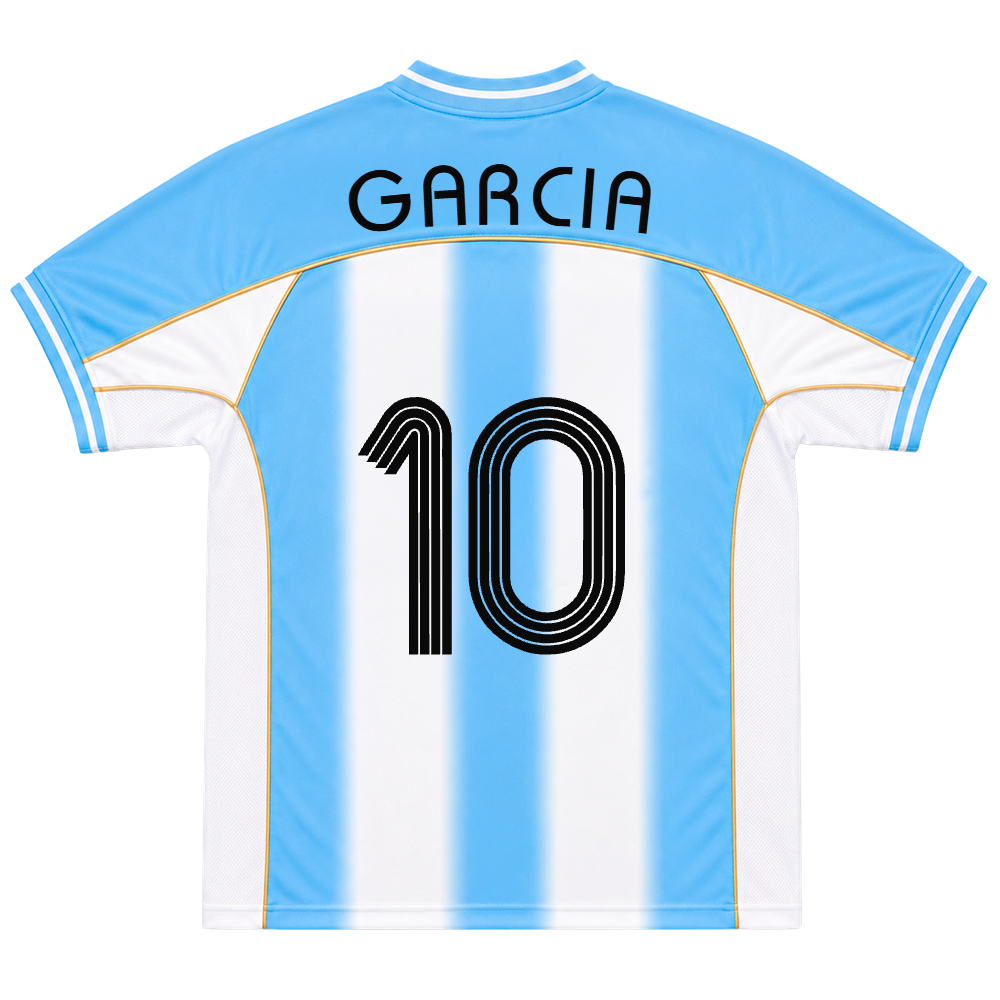
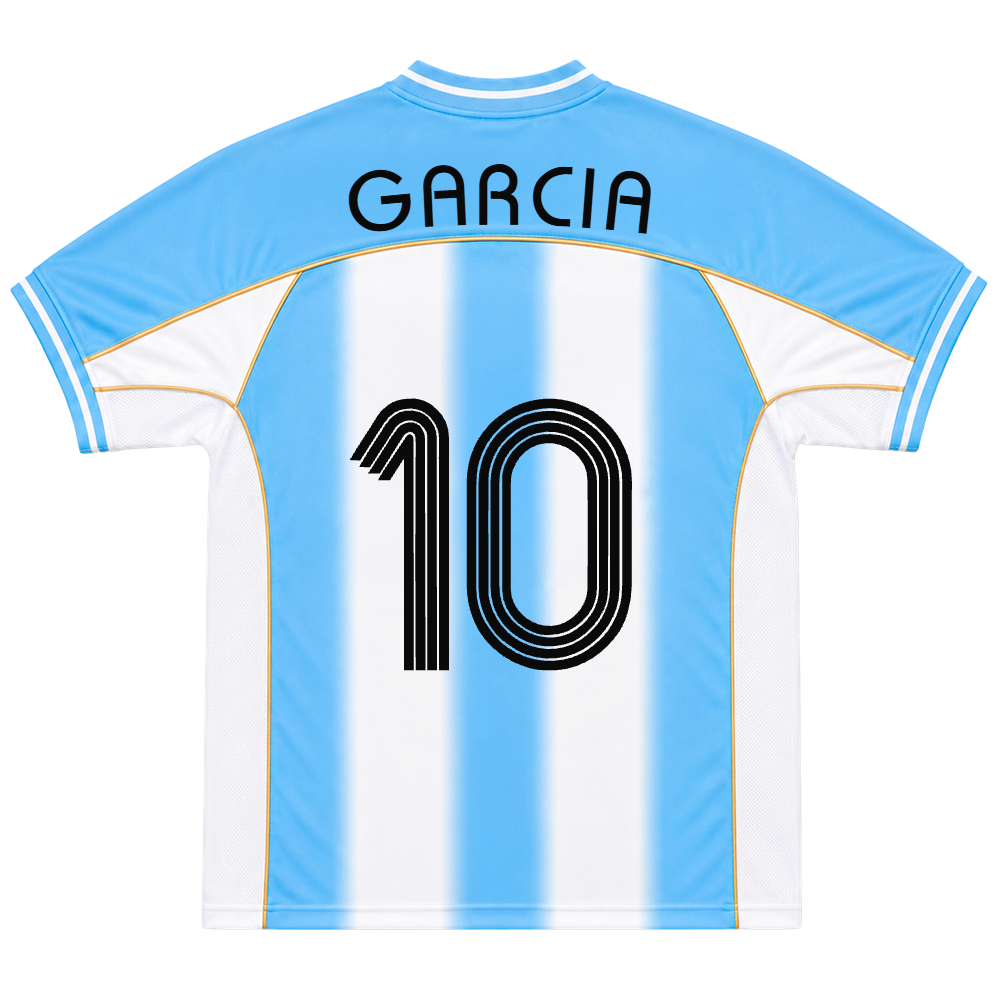
fix(jersey): numero de espalda un poco mas grande (0.38 / 0.46) (#85)

Changed region(s): [[0.341, 0.403, 0.651, 0.682]]

diff --git a/next-app/app/personalizar/[slug]/PersonalizarClient.tsx b/next-app/app/personalizar/[slug]/PersonalizarClient.tsx
@@ -49,7 +49,7 @@ async function renderJersey(canvas: HTMLCanvasElement, view: 'espalda' | 'frente
       drawArcText(ctx, playerName, S / 2, S * 1.40, S * 1.20, Math.round(fontSize * 0.08));
     }
     if (playerNumber) {
-      const fontSize = playerNumber.length === 1 ? Math.round(S * 0.44) : Math.round(S * 0.36);
+      const fontSize = playerNumber.length === 1 ? Math.round(S * 0.46) : Math.round(S * 0.38);
       ctx.font = `${fontSize}px ${FONT}`; ctx.textAlign = 'center'; ctx.textBaseline = 'top'; ctx.fillStyle = '#0a0a0a';
       ctx.fillText(playerNumber, S * 0.5, S * 0.37);
     }
